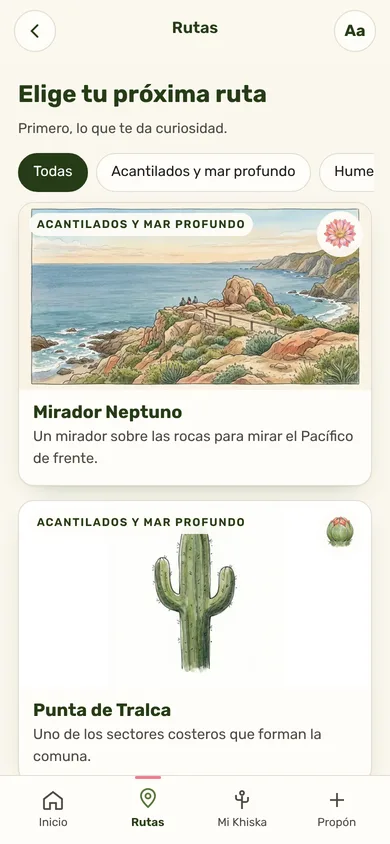
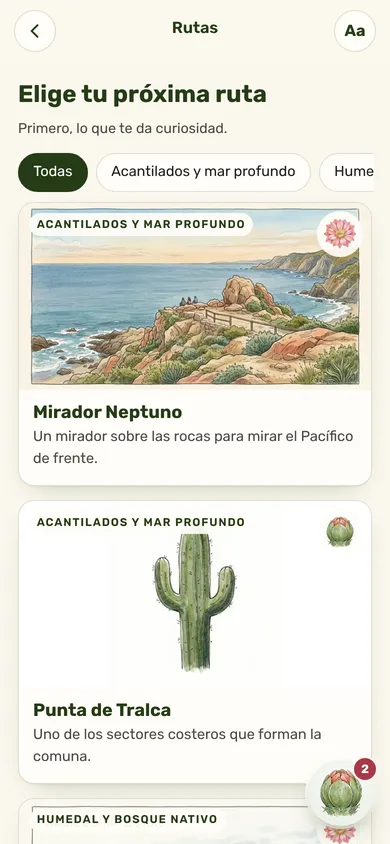
App: menú flor en lugar de barra inferior y agenda con calendario dentro de la app
Claude-Session: https://claude.ai/code/session_01BMNqxuP8tPza3Kx8M8t959

Changed region(s): [[0.0615, 0.8934, 0.9846, 1.0], [0.0615, 0.9858, 0.0923, 1.0]]

diff --git a/app/index.html b/app/index.html
@@ -204,6 +204,15 @@ p { margin: 0 0 .8em; }
 .sellos img { width: 100%; height: 100%; object-fit: contain; filter: drop-shadow(0 2px 3px rgba(0,0,0,.3)); animation: estampar .5s cubic-bezier(.3,1.4,.5,1) both; }
 @keyframes estampar { from { transform: scale(2) rotate(-20deg); opacity: 0; } }
 
+/* ---------- Agenda ---------- */
+.meses { list-style: none; padding: 0; margin: 16px 0 0; position: relative; }
+.meses::before { content: ""; position: absolute; left: 27px; top: 20px; bottom: 20px; width: 2px; background: linear-gradient(var(--salvia), var(--rosa)); }
+.meses li { position: relative; display: flex; gap: 14px; align-items: flex-start; padding: 8px 0; }
+.meses img { width: 56px; height: 56px; flex: none; object-fit: contain; border-radius: 50%; background: var(--tarjeta); border: 2px solid var(--linea); padding: 6px; }
+.meses b { color: var(--verde-tinta); }
+.meses p { margin: .2em 0 0; }
+.agenda-form { margin-top: 18px; }
+
 /* ---------- P10 Propón ---------- */
 .campo { display: flex; flex-direction: column; gap: 6px; margin-bottom: 12px; }
 .campo label { font-weight: 500; color: var(--verde-tinta); font-size: .95rem; }
@@ -213,14 +222,29 @@ p { margin: 0 0 .8em; }
 .error { color: #9b1c1c; font-size: .88rem; margin: 0; min-height: 1.2em; }
 .exito { background: var(--salvia-suave); border: 1px solid var(--salvia); color: var(--verde-tinta); border-radius: var(--radio); padding: 14px; margin-top: 12px; }
 
-/* ---------- Barra de pestañas ---------- */
-.pestanas { display: grid; grid-template-columns: repeat(4, 1fr); padding: 6px 6px calc(6px + env(safe-area-inset-bottom, 0px)); background: rgba(255,253,248,.96); backdrop-filter: blur(8px); border-top: 1px solid var(--linea); z-index: 5; }
-.pestanas button { display: flex; flex-direction: column; align-items: center; gap: 2px; padding: 6px 0; border: 0; background: none; cursor: pointer; font-size: .72rem; color: var(--suave); border-radius: 12px; position: relative; }
-.pestanas svg { width: 24px; height: 24px; transition: transform .3s cubic-bezier(.3,1.6,.5,1); }
-.pestanas button[aria-current="page"] { color: var(--verde-tinta); font-weight: 600; }
-.pestanas button[aria-current="page"] svg { transform: translateY(-2px); color: var(--verde); }
-.pestanas button[aria-current="page"]::before { content: ""; position: absolute; top: -6px; width: 26px; height: 3px; border-radius: 2px; background: var(--rosa); }
-.aviso { position: absolute; left: 50%; bottom: 84px; transform: translateX(-50%); z-index: 30; max-width: 88%; padding: .7em 1.1em; border-radius: 14px; background: var(--verde-tinta); color: #fff; font-size: .9rem; text-align: center; box-shadow: var(--sombra); animation: entrar .3s both; }
+/* ---------- Menú flor: un capullo que se abre ---------- */
+.pantalla { padding-bottom: 110px; }
+.menu-velo { position: absolute; inset: 0; z-index: 14; background: rgba(250,247,238,.72); backdrop-filter: blur(3px); animation: entrar .25s both; }
+.menu-flor { position: absolute; right: 16px; bottom: calc(18px + env(safe-area-inset-bottom, 0px)); z-index: 15; display: flex; flex-direction: column; align-items: flex-end; gap: 12px; pointer-events: none; }
+.menu-flor__boton { pointer-events: auto; position: relative; width: 66px; height: 66px; border-radius: 50%; border: 0; padding: 0; cursor: pointer; background: radial-gradient(circle at 50% 40%, #fff, var(--salvia-suave)); box-shadow: 0 12px 26px -10px rgba(38,59,23,.55), 0 0 0 3px rgba(255,253,248,.9); transition: transform .3s cubic-bezier(.3,1.6,.5,1); }
+.menu-flor__boton:active { transform: scale(.92); }
+.menu-flor__boton img { position: absolute; inset: 8px; width: 50px; height: 50px; object-fit: contain; transition: opacity .35s, transform .6s cubic-bezier(.3,1.5,.5,1); }
+.menu-flor__abierta { opacity: 0; transform: scale(.4) rotate(-60deg); }
+.menu-flor__boton[aria-expanded="true"] .menu-flor__capullo { opacity: 0; transform: scale(1.3) rotate(40deg); }
+.menu-flor__boton[aria-expanded="true"] .menu-flor__abierta { opacity: 1; transform: rotate(0); }
+.menu-flor__boton[aria-expanded="false"] .menu-flor__capullo { animation: latir 3.4s ease-in-out infinite; }
+.menu-flor__cuenta { position: absolute; top: -2px; right: -2px; min-width: 22px; height: 22px; padding: 0 6px; border-radius: 11px; background: var(--rosa-tinta); color: #fff; font-size: .75rem; font-weight: 700; display: grid; place-items: center; box-shadow: 0 0 0 2px var(--papel); }
+.menu-flor__lista { list-style: none; margin: 0; padding: 0; display: flex; flex-direction: column; align-items: flex-end; gap: 10px; pointer-events: none; visibility: hidden; transition: visibility 0s .4s; }
+.menu-flor__lista li { opacity: 0; transform: translateY(24px) scale(.6); transform-origin: right bottom; transition: opacity .25s, transform .35s cubic-bezier(.3,1.5,.5,1); transition-delay: calc(var(--i) * 40ms); }
+.menu-flor--abierto .menu-flor__lista { pointer-events: auto; visibility: visible; transition: none; }
+.menu-flor--abierto .menu-flor__lista li { opacity: 1; transform: none; }
+.menu-flor__lista button { display: flex; align-items: center; gap: 10px; border: 0; background: none; padding: 0; cursor: pointer; font-weight: 500; color: var(--verde-tinta); }
+.menu-flor__texto { padding: .4em .9em; border-radius: 999px; background: var(--tarjeta); box-shadow: var(--sombra); font-size: .95rem; }
+.menu-flor__icono { width: 50px; height: 50px; border-radius: 50%; display: grid; place-items: center; background: var(--c); color: #fff; box-shadow: 0 8px 18px -8px var(--c); margin-right: 8px; transition: transform .25s cubic-bezier(.3,1.6,.5,1); }
+.menu-flor__icono svg { width: 24px; height: 24px; }
+.menu-flor__lista button:hover .menu-flor__icono, .menu-flor__lista button:focus-visible .menu-flor__icono { transform: scale(1.1) rotate(-6deg); }
+.menu-flor__lista button[aria-current="page"] .menu-flor__texto { background: var(--verde-tinta); color: #fff; }
+.aviso { position: absolute; left: 50%; bottom: 100px; transform: translateX(-50%); z-index: 30; max-width: 88%; padding: .7em 1.1em; border-radius: 14px; background: var(--verde-tinta); color: #fff; font-size: .9rem; text-align: center; box-shadow: var(--sombra); animation: entrar .3s both; }
 
 /* ---------- Lluvia de flores ---------- */
 .lluvia { position: absolute; inset: 0; z-index: 25; pointer-events: none; overflow: hidden; }
@@ -254,11 +278,20 @@ html.facil .jardin { grid-template-columns: repeat(2, 1fr); }
       <button class="icono" id="facil" type="button" aria-pressed="false" aria-label="Lectura fácil">Aa</button>
     </header>
     <div class="pantallas" id="pantallas" aria-live="polite"></div>
-    <nav class="pestanas" aria-label="Secciones de la app">
-      <button type="button" data-ir="inicio"><svg viewBox="0 0 24 24" fill="none" stroke="currentColor" stroke-width="1.8"><path d="M3 11l9-7 9 7v9a1 1 0 0 1-1 1h-5v-6H9v6H4a1 1 0 0 1-1-1z"/></svg>Inicio</button>
-      <button type="button" data-ir="rutas"><svg viewBox="0 0 24 24" fill="none" stroke="currentColor" stroke-width="1.8"><path d="M12 21s-7-6.2-7-11a7 7 0 0 1 14 0c0 4.8-7 11-7 11z"/><circle cx="12" cy="10" r="2.5"/></svg>Rutas</button>
-      <button type="button" data-ir="mi"><svg viewBox="0 0 24 24" fill="none" stroke="currentColor" stroke-width="1.8"><path d="M12 21V8M12 12H8a2 2 0 0 1-2-2V7M12 14h4a2 2 0 0 0 2-2V9"/><circle cx="12" cy="5" r="2"/></svg>Mi Khiska</button>
-      <button type="button" data-ir="propon"><svg viewBox="0 0 24 24" fill="none" stroke="currentColor" stroke-width="1.8"><path d="M12 5v14M5 12h14"/></svg>Propón</button>
+    <div class="menu-velo" id="menu-velo" hidden></div>
+    <nav class="menu-flor" aria-label="Menú de la app">
+      <ul class="menu-flor__lista" id="menu-lista">
+        <li style="--i:4;--c:#55763a"><button type="button" data-ir="inicio"><span class="menu-flor__texto">Inicio</span><span class="menu-flor__icono"><svg viewBox="0 0 24 24" fill="none" stroke="currentColor" stroke-width="2" stroke-linecap="round" stroke-linejoin="round"><path d="M3 11l9-7 9 7v9a1 1 0 0 1-1 1h-5v-6H9v6H4a1 1 0 0 1-1-1z"/></svg></span></button></li>
+        <li style="--i:3;--c:#0087bd"><button type="button" data-ir="rutas"><span class="menu-flor__texto">Rutas</span><span class="menu-flor__icono"><svg viewBox="0 0 24 24" fill="none" stroke="currentColor" stroke-width="2" stroke-linecap="round" stroke-linejoin="round"><path d="M12 21s-7-6.2-7-11a7 7 0 0 1 14 0c0 4.8-7 11-7 11z"/><circle cx="12" cy="10" r="2.5"/></svg></span></button></li>
+        <li style="--i:2;--c:#c9566a"><button type="button" data-ir="mi"><span class="menu-flor__texto">Mi Khiska</span><span class="menu-flor__icono"><svg viewBox="0 0 24 24" fill="none" stroke="currentColor" stroke-width="2" stroke-linecap="round" stroke-linejoin="round"><path d="M12 21V8M12 12H8a2 2 0 0 1-2-2V7M12 14h4a2 2 0 0 0 2-2V9"/><circle cx="12" cy="5" r="2"/></svg></span></button></li>
+        <li style="--i:1;--c:#c27f00"><button type="button" data-ir="agenda"><span class="menu-flor__texto">Agenda</span><span class="menu-flor__icono"><svg viewBox="0 0 24 24" fill="none" stroke="currentColor" stroke-width="2" stroke-linecap="round" stroke-linejoin="round"><rect x="3.5" y="5" width="17" height="15.5" rx="2"/><path d="M3.5 10h17M8 3v4M16 3v4"/></svg></span></button></li>
+        <li style="--i:0;--c:#6f8f2f"><button type="button" data-ir="propon"><span class="menu-flor__texto">Propón un lugar</span><span class="menu-flor__icono"><svg viewBox="0 0 24 24" fill="none" stroke="currentColor" stroke-width="2" stroke-linecap="round" stroke-linejoin="round"><path d="M12 5v14M5 12h14"/></svg></span></button></li>
+      </ul>
+      <button class="menu-flor__boton" id="menu-boton" type="button" aria-expanded="false" aria-controls="menu-lista" aria-label="Abrir menú">
+        <img class="menu-flor__capullo" src="../assets/img/flor-capullo.webp" alt="" width="360" height="404">
+        <img class="menu-flor__abierta" src="../assets/img/flor-abierta.webp" alt="" width="280" height="255">
+        <span class="menu-flor__cuenta" id="menu-cuenta" hidden></span>
+      </button>
     </nav>
   </main>
   <p class="credito">Proyecto académico de Agencia C.C.C. · Duoc UC · <a href="../index.html">Volver al portal</a></p>
@@ -423,8 +456,20 @@ html.facil .jardin { grid-template-columns: repeat(2, 1fr); }
       (s ? '<p class="suave">Te quedan ' + pend.length + (pend.length === 1 ? " ruta" : " rutas") + ' por descubrir. Esta es la que más se parece a lo que te da curiosidad:</p>' +
         '<div class="rutas"><button class="ruta" type="button" data-ruta="' + s.id + '"><img class="ruta__img" src="' + IMG + 'territorio-' + s.id + '-card.webp" alt=""><span class="ruta__etiqueta">' + esc(s.etiqueta) + '</span><span class="ruta__flor"><img src="' + flor(estado(s.id)) + '" alt=""></span><span class="ruta__cuerpo"><h3>' + esc(s.nombre) + '</h3><p>' + esc(s.bajada) + '</p></span></button></div>'
         : '<p class="suave">Recorriste las siete rutas. Propón un lugar nuevo para que el jardín siga creciendo.</p>') +
-      '<div class="caja"><h3>Cada mes, algo distinto</h3><p class="suave chico" style="margin:0">Revisa la agenda del portal para planear tu vuelta fuera del verano.</p></div>' +
-      '<div class="acciones"><a class="btn btn--bloque" href="../index.html#agenda">Ver la agenda</a><button class="btn btn--sec btn--bloque" type="button" data-ir="propon">Propón un lugar</button></div></section>';
+      '<div class="caja"><h3>Cada mes, algo distinto</h3><p class="suave chico" style="margin:0">Revisa la agenda y suma tu próxima visita a tu calendario.</p></div>' +
+      '<div class="acciones"><button class="btn btn--bloque" type="button" data-ir="agenda">Ver la agenda</button><button class="btn btn--sec btn--bloque" type="button" data-ir="propon">Propón un lugar</button></div></section>';
+  } };
+  V.agenda = { titulo: "Agenda", html: function () {
+    var MESES = [["Julio", "Despertar", "El Quisco no termina en la playa. Un mes para mirar la comuna con otros ojos y elegir qué descubrir primero.", "capullo"],
+      ["Agosto", "Recorrer", "Elige, prepara y comienza: el mes para salir a hacer tu primera ruta.", "parcial"],
+      ["Septiembre", "Florecer y volver", "Con la primavera, una razón para volver: tu cactus todavía tiene capullos por abrir.", "abierta"]];
+    var hoy = new Date().toISOString().slice(0, 10);
+    return '<section class="pantalla"><span class="rotulo rotulo--rosa">Razones para volver</span><h2>Tres meses para descubrir El Quisco fuera del verano</h2>' +
+      '<ol class="meses cascada">' + MESES.map(function (m) { return '<li><img src="' + flor(m[3]) + '" alt=""><div><b>' + m[0] + ' · ' + m[1] + '</b><p class="suave chico">' + m[2] + '</p></div></li>'; }).join("") + '</ol>' +
+      '<div class="caja agenda-form"><h3>Agenda tu próxima visita</h3><p class="suave chico">Elige un lugar y un día. Lo sumamos a tu calendario.</p>' +
+      '<div class="campo"><label for="lugar-visita">Lugar</label><select id="lugar-visita">' + ordenadas().map(function (r) { return '<option value="' + r.id + '"' + (r.id === E.ruta ? " selected" : "") + '>' + esc(r.nombre) + (estado(r.id) === "abierta" ? " · flor abierta" : "") + '</option>'; }).join("") + '</select></div>' +
+      '<div class="campo"><label for="fecha">Día</label><input id="fecha" type="date" min="' + hoy + '"></div>' +
+      '<p class="error" id="error-agenda" aria-live="polite"></p><button class="btn btn--bloque" type="button" id="agendar">Agregar a mi calendario</button></div></section>';
   } };
   V.propon = { titulo: "Propón un lugar", html: function () {
     return '<section class="pantalla"><span class="rotulo rotulo--rosa">Cada ruta tiene algo que contar</span><h2>¿Qué lugar de El Quisco debería tener su flor?</h2>' +
@@ -444,8 +489,10 @@ html.facil .jardin { grid-template-columns: repeat(2, 1fr); }
     cont.innerHTML = V[id].html();
     $("#titulo").textContent = V[id].titulo;
     $("#volver").classList.toggle("icono--fantasma", id === "inicio");
-    document.querySelectorAll(".pestanas button").forEach(function (b) {
-      var activo = b.getAttribute("data-ir") === id || (id === "ficha" || id === "enruta" ? b.getAttribute("data-ir") === "rutas" : false) || ((id === "florece" || id === "proxima") && b.getAttribute("data-ir") === "mi");
+    menu(false);
+    var n = hechas(), cuenta = $("#menu-cuenta"); cuenta.hidden = !n; cuenta.textContent = n;
+    document.querySelectorAll(".menu-flor__lista button").forEach(function (b) {
+      var activo = b.getAttribute("data-ir") === id || (id === "ficha" || id === "enruta" || id === "intereses" ? b.getAttribute("data-ir") === "rutas" : false) || ((id === "florece" || id === "proxima") && b.getAttribute("data-ir") === "mi");
       if (activo) b.setAttribute("aria-current", "page"); else b.removeAttribute("aria-current");
     });
     cont.scrollTop = 0;
@@ -473,6 +520,35 @@ html.facil .jardin { grid-template-columns: repeat(2, 1fr); }
     }, quieto ? 400 : 2100);
   }
 
+  /* ---------- Menú flor ---------- */
+  function menu(abrir) {
+    var boton = $("#menu-boton"); if (!boton) return;
+    $(".menu-flor").classList.toggle("menu-flor--abierto", abrir);
+    $("#menu-velo").hidden = !abrir;
+    boton.setAttribute("aria-expanded", String(abrir));
+    boton.setAttribute("aria-label", abrir ? "Cerrar menú" : "Abrir menú");
+    document.querySelectorAll(".menu-flor__lista button").forEach(function (b) { b.tabIndex = abrir ? 0 : -1; });
+  }
+  $("#menu-velo").addEventListener("click", function () { menu(false); });
+  document.addEventListener("keydown", function (ev) { if (ev.key === "Escape" && $("#menu-boton").getAttribute("aria-expanded") === "true") { menu(false); $("#menu-boton").focus(); } });
+
+  /* ---------- Agendar una visita: archivo de calendario (.ics) ---------- */
+  function agendar() {
+    var f = $("#fecha").value, r = ruta($("#lugar-visita").value);
+    if (!f) { $("#error-agenda").textContent = "Elige una fecha para tu visita."; return; }
+    $("#error-agenda").textContent = "";
+    var d = f.replace(/-/g, ""), sig = new Date(f + "T12:00:00"); sig.setDate(sig.getDate() + 1);
+    var d2 = sig.toISOString().slice(0, 10).replace(/-/g, "");
+    var ics = ["BEGIN:VCALENDAR", "VERSION:2.0", "PRODID:-//Khiska//El Quisco//ES", "BEGIN:VEVENT",
+      "UID:" + Date.now() + "@khiska", "DTSTAMP:" + new Date().toISOString().replace(/[-:]/g, "").slice(0, 15) + "Z",
+      "DTSTART;VALUE=DATE:" + d, "DTEND;VALUE=DATE:" + d2,
+      "SUMMARY:Khiska · " + r.nombre, "DESCRIPTION:" + r.bajada + " Una ruta, una flor.", "LOCATION:" + r.nombre + ", El Quisco", "END:VEVENT", "END:VCALENDAR"].join("\r\n");
+    var a = document.createElement("a");
+    a.href = URL.createObjectURL(new Blob([ics], { type: "text/calendar" }));
+    a.download = "khiska-" + r.id + ".ics"; document.body.appendChild(a); a.click(); a.remove();
+    aviso("Abre el archivo para sumarlo a tu calendario");
+  }
+
   /* ---------- Eventos ---------- */
   var toques = 0, reloj = null;
   document.addEventListener("click", function (ev) {
@@ -483,6 +559,8 @@ html.facil .jardin { grid-template-columns: repeat(2, 1fr); }
       if (toques >= 3) { toques = 0; window.location.href = "prototipo.html"; }
       return;
     }
+    if (t.id === "menu-boton") { menu(t.getAttribute("aria-expanded") !== "true"); return; }
+    if (t.id === "agendar") { agendar(); return; }
     if (t.hasAttribute("data-ir")) { ir(t.getAttribute("data-ir")); return; }
     if (t.hasAttribute("data-ruta")) { E.ruta = t.getAttribute("data-ruta"); guardar(); ir("ficha"); return; }
     if (t.hasAttribute("data-interes")) {

diff --git a/_proyecto/registro-de-decisiones.md b/_proyecto/registro-de-decisiones.md
@@ -28,3 +28,4 @@
 | 24/11/2026 | App rehecha en modo presentación con la identidad del portal (sin "prototipo", "ejemplo", "por confirmar" ni Wallet); usa los 7 lugares del portal y un recorrido genérico de 3 pasos (inicio, camino, cierre) sin inventar duraciones ni dificultades | Nicolás | Hecho |
 | 24/11/2026 | El prototipo con modo prueba se conserva en `app/prototipo.html`, oculto: se abre con 3 toques en la flor del cactus del inicio de la app | Nicolás | Hecho |
 | 24/11/2026 | El portal y la app son para todo público: sin segmentar por género ni preferencias | Nicolás | Acordado |
+| 24/11/2026 | App: la barra inferior se reemplaza por un menú flor (capullo flotante abajo a la derecha que se abre y despliega Inicio, Rutas, Mi Khiska, Agenda y Propón); agenda dentro de la app con los 3 meses y "Agregar a mi calendario" (.ics). Calendario de floración: idea pendiente, requiere especies y meses con fuente | Nicolás | Hecho |
